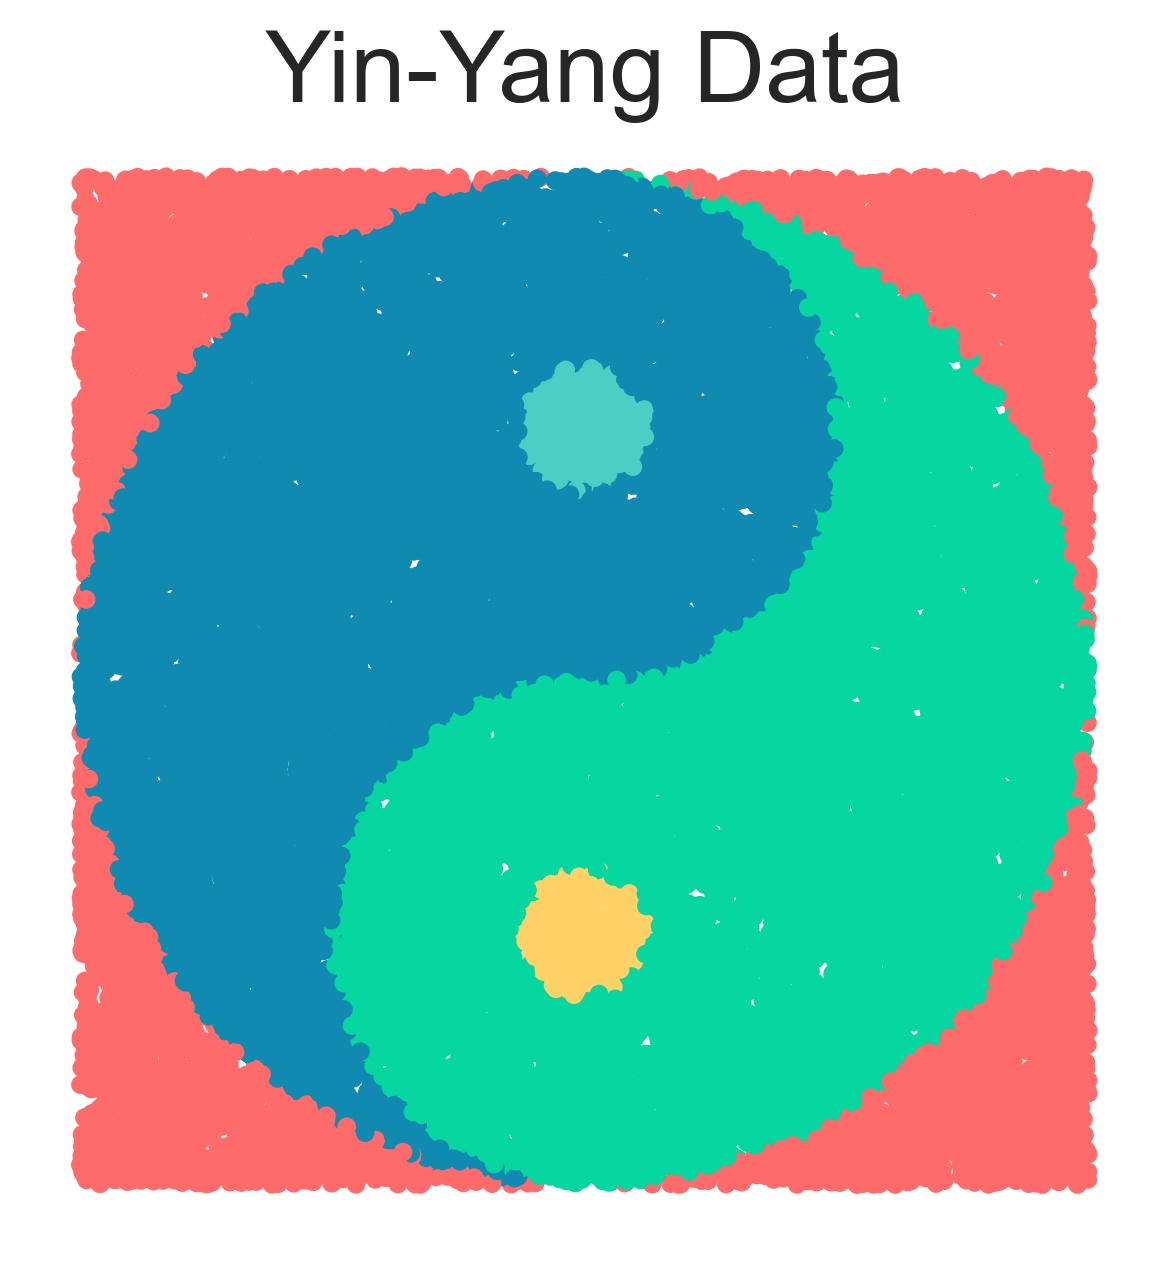
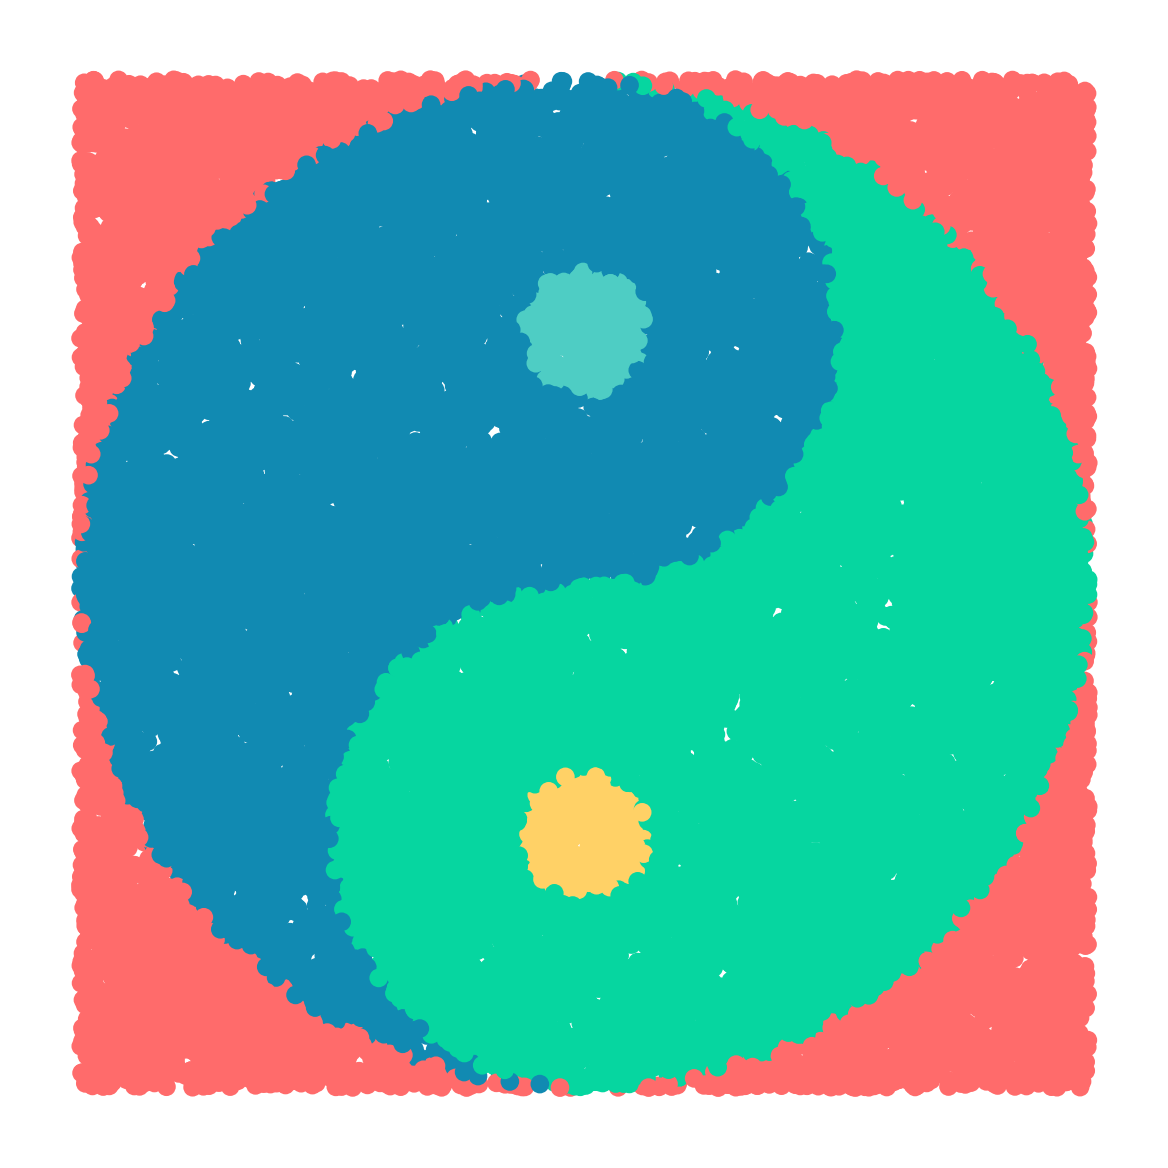
make title optional arg in vis function and update gt image

diff --git a/src/visualization.py b/src/visualization.py
@@ -8,7 +8,7 @@ from tqdm import tqdm
 from src.config import COLORS, OUTPUT_DIR, PLOT_CONFIG
 
 
-def scatter_plot(X, y, title, filename=None, ax=None):
+def scatter_plot(X, y, title=None, filename=None, ax=None):
     sns.set_theme(
         style=PLOT_CONFIG["style"],
         font_scale=PLOT_CONFIG["font_scale"],
@@ -25,7 +25,8 @@ def scatter_plot(X, y, title, filename=None, ax=None):
         edgecolor=PLOT_CONFIG["edgecolor"],
     )
     ax.set_aspect(PLOT_CONFIG["aspect"], PLOT_CONFIG["adjust_aspect"])
-    ax.set_title(title)
+    if title:
+        ax.set_title(title)
     ax.axis(PLOT_CONFIG["axis"])
     ax.get_legend().remove()
     if filename:

diff --git a/src/data_generator.py b/src/data_generator.py
@@ -65,4 +65,4 @@ if __name__ == "__main__":
 
     # Generate and visualize sample data
     _, X, _, y = generate_yin_yang_data(**DATA_CONFIG)
-    scatter_plot(X, y, title="Yin-Yang Data", filename="yin_yang_data.png")
+    scatter_plot(X, y, filename="yin_yang_data.png")
